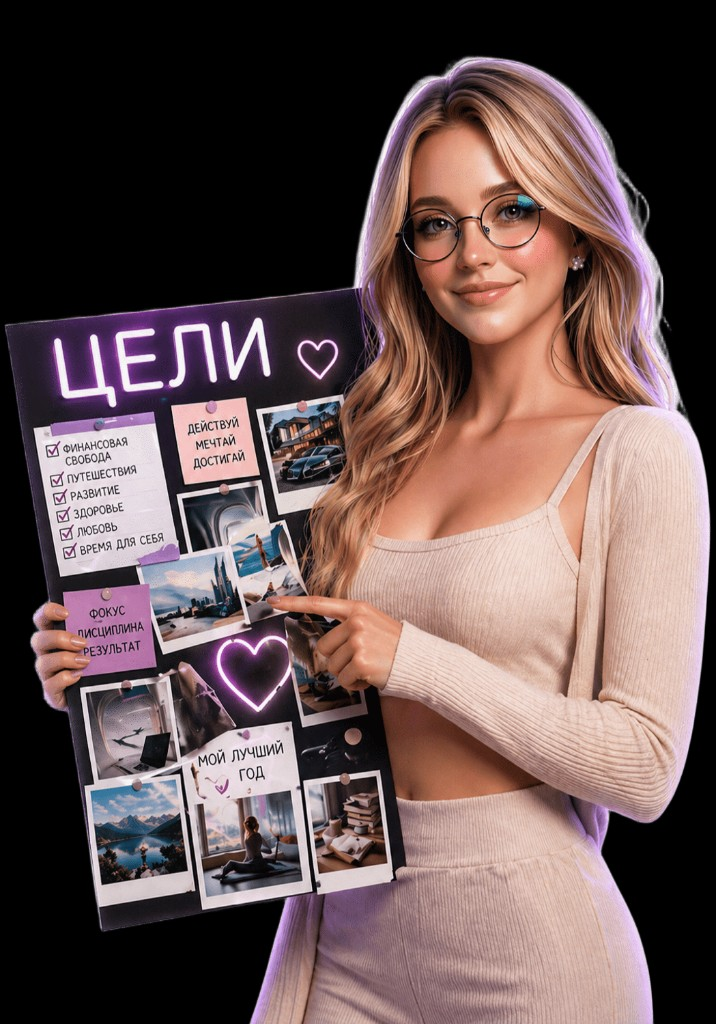
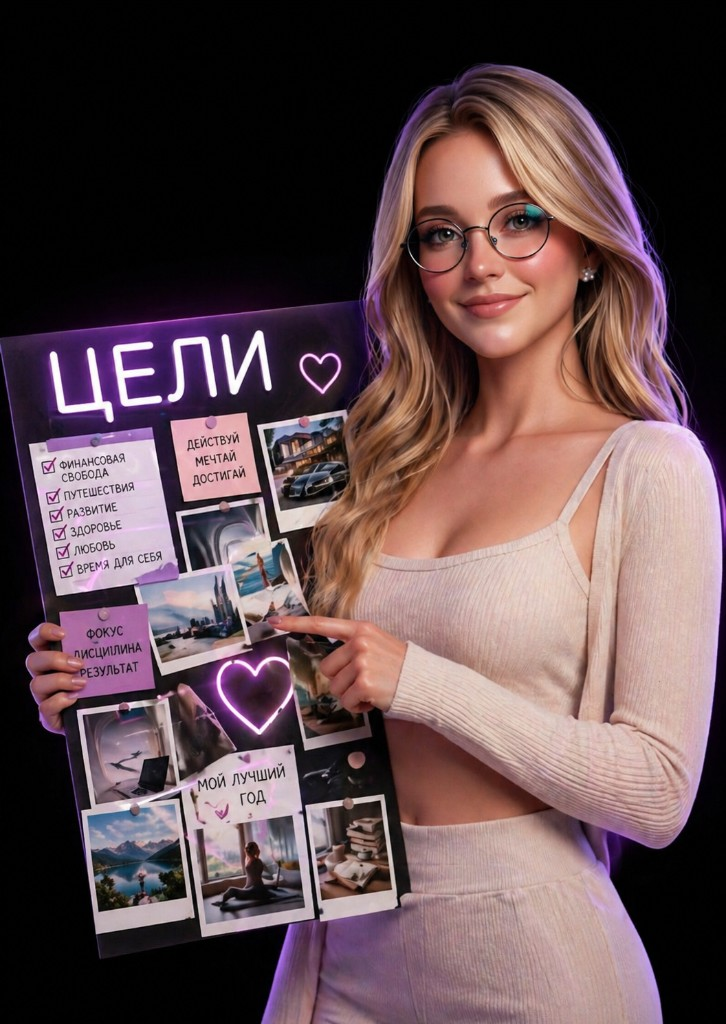
Goals hero: HabitHero-style layout with contain image; new art; tighter spacing.
Made-with: Cursor

diff --git a/src/features/goals/GoalsHero.tsx b/src/features/goals/GoalsHero.tsx
@@ -4,71 +4,97 @@ import { Platform, StyleSheet, Text, useWindowDimensions, View } from 'react-nat
 
 import { useAppTheme } from '@/theme';
 
-/** PNG с прозрачным фоном: девушка с доской «ЦЕЛИ». */
+/** PNG с прозрачным фоном: София с доской «ЦЕЛИ». */
 export const GOALS_HERO_VISION_IMAGE = require('../../assets/images/goals-hero-vision-board.png');
 
-const STACK_BREAKPOINT = 440;
+const STACK_BREAKPOINT = 420;
 
 /**
- * Hero для раздела «Цели»: плашка как на «День», крупное фото с alpha — «вылезает» за нижний край карточки.
+ * Hero «Цели»: та же сетка, что на экране «День» (HabitHero) — правая колонка, картинка в рамке без обрезки (`contain`).
  */
 export function GoalsHero() {
   const { radius, spacing } = useAppTheme();
   const cardRadius = radius.xl;
   const { width: windowWidth } = useWindowDimensions();
-  const stack = windowWidth < STACK_BREAKPOINT;
+  const stackLayout = windowWidth < STACK_BREAKPOINT;
 
   return (
-    <View style={[styles.root, { borderRadius: cardRadius, marginBottom: spacing.lg }]}>
+    <View style={[styles.banner, { borderRadius: cardRadius, marginBottom: spacing.sm }]}>
       <LinearGradient
         pointerEvents="none"
         colors={['#141018', '#0a090f', '#06060a']}
         start={{ x: 0, y: 0 }}
-        end={{ x: 0.85, y: 1 }}
+        end={{ x: 0.9, y: 1 }}
         style={[StyleSheet.absoluteFillObject, { borderRadius: cardRadius }]}
       />
       <LinearGradient
         pointerEvents="none"
-        colors={['rgba(109,40,217,0.42)', 'rgba(20,16,28,0.2)', 'transparent']}
-        start={{ x: 0, y: 0.35 }}
-        end={{ x: 0.7, y: 0.55 }}
+        colors={['rgba(109,40,217,0.42)', 'rgba(20,16,28,0.22)', 'transparent']}
+        start={{ x: 0, y: 0.4 }}
+        end={{ x: 0.65, y: 0.6 }}
         style={[StyleSheet.absoluteFillObject, { borderRadius: cardRadius }]}
       />
       <LinearGradient
         pointerEvents="none"
-        colors={['transparent', 'rgba(167,139,250,0.18)']}
-        start={{ x: 0.35, y: 0 }}
+        colors={['transparent', 'rgba(109,40,217,0.12)', 'rgba(167,139,250,0.2)']}
+        start={{ x: 0.4, y: 0 }}
         end={{ x: 1, y: 1 }}
         style={[StyleSheet.absoluteFillObject, { borderRadius: cardRadius }]}
       />
 
-      <View style={[styles.row, stack && styles.rowStack]}>
-        <View style={[styles.copy, stack && styles.copyStack]}>
-          <Text style={styles.overline}>ЦЕЛИ</Text>
-          <Text style={styles.headline}>Визионборд</Text>
-          <Text style={styles.micro}>
-            Доска с фото и заметками — цели на виду, как на настоящем визионборде.
-          </Text>
+      <View style={[styles.contentRow, stackLayout && styles.contentRowStack]}>
+        <View style={[styles.copyZone, stackLayout && styles.copyZoneStack]}>
+          <Text style={styles.headline}>Цели и доска желаний</Text>
         </View>
 
-        <View style={[styles.figureSlot, stack && styles.figureSlotStack]} pointerEvents="none">
-          <Image
-            source={GOALS_HERO_VISION_IMAGE}
-            style={stack ? styles.figureImgStack : styles.figureImgRow}
-            contentFit="contain"
-            accessibilityIgnoresInvertColors
-            accessibilityLabel="Иллюстрация: девушка с доской целей"
+        <View style={[styles.figureZone, stackLayout && styles.figureZoneStack]}>
+          <View style={styles.figureImageFrame} collapsable={false}>
+            <Image
+              source={GOALS_HERO_VISION_IMAGE}
+              style={StyleSheet.absoluteFillObject}
+              contentFit="contain"
+              contentPosition={{ right: '0%', bottom: '0%' }}
+              accessibilityIgnoresInvertColors
+              accessibilityLabel="Иллюстрация: доска желаний"
+            />
+          </View>
+          <LinearGradient
+            pointerEvents="none"
+            colors={[
+              'rgba(8,8,14,0.9)',
+              'rgba(10,10,18,0.42)',
+              'rgba(14,12,22,0.1)',
+              'transparent',
+            ]}
+            locations={[0, 0.38, 0.72, 1]}
+            start={{ x: 0, y: 0.5 }}
+            end={{ x: 1, y: 0.5 }}
+            style={styles.figureBlendLeft}
+          />
+          <LinearGradient
+            pointerEvents="none"
+            colors={['rgba(6,6,10,0.22)', 'transparent']}
+            start={{ x: 0.5, y: 0 }}
+            end={{ x: 0.5, y: 0.42 }}
+            style={[StyleSheet.absoluteFillObject, styles.figureFeatherTop]}
+          />
+          <LinearGradient
+            pointerEvents="none"
+            colors={['transparent', 'rgba(6,6,10,0.5)', 'rgba(5,5,8,0.75)']}
+            locations={[0, 0.55, 1]}
+            start={{ x: 0, y: 0.5 }}
+            end={{ x: 1, y: 0.5 }}
+            style={styles.figureFeatherRight}
+          />
+          <LinearGradient
+            pointerEvents="none"
+            colors={['transparent', 'rgba(55,20,90,0.22)']}
+            start={{ x: 0.15, y: 0 }}
+            end={{ x: 1, y: 1 }}
+            style={[StyleSheet.absoluteFillObject, styles.figureTint]}
           />
         </View>
       </View>
-
-      <LinearGradient
-        pointerEvents="none"
-        colors={['rgba(8,8,14,0.35)', 'transparent']}
-        start={{ x: 0, y: 0.5 }}
-        end={{ x: 0.45, y: 0.5 }}
-        style={[styles.leftFeather, { borderRadius: cardRadius }]}
-      />
 
       <View
         pointerEvents="none"
@@ -77,7 +103,7 @@ export function GoalsHero() {
           {
             borderRadius: cardRadius,
             borderWidth: 1,
-            borderColor: 'rgba(167,139,250,0.32)',
+            borderColor: 'rgba(167,139,250,0.28)',
           },
         ]}
       />
@@ -89,7 +115,7 @@ export function GoalsHero() {
             {
               borderRadius: cardRadius,
               boxShadow:
-                'inset 0 0 0 1px rgba(255,255,255,0.06), 0 0 80px rgba(120,60,200,0.2), 0 20px 56px rgba(0,0,0,0.5)',
+                'inset 0 0 0 1px rgba(255,255,255,0.06), 0 0 80px rgba(120,60,200,0.22), 0 20px 56px rgba(0,0,0,0.55)',
             } as object,
           ]}
         />
@@ -99,111 +125,101 @@ export function GoalsHero() {
 }
 
 const styles = StyleSheet.create({
-  root: {
-    marginTop: 4,
-    overflow: 'visible',
+  banner: {
+    marginTop: 0,
+    overflow: 'hidden',
     position: 'relative',
     borderWidth: 1,
-    borderColor: 'rgba(139,92,246,0.38)',
-    minHeight: 248,
+    borderColor: 'rgba(139,92,246,0.35)',
     ...(Platform.OS === 'web'
       ? {
           boxShadow:
-            'inset 0 0 0 1px rgba(255,255,255,0.05), 0 18px 52px rgba(0,0,0,0.55), 0 0 88px rgba(88,40,160,0.22)',
+            'inset 0 0 0 1px rgba(255,255,255,0.05), 0 18px 52px rgba(0,0,0,0.58), 0 0 88px rgba(88,40,160,0.24)',
         }
       : {
           shadowColor: '#000',
-          shadowOffset: { width: 0, height: 16 },
-          shadowOpacity: 0.5,
-          shadowRadius: 32,
-          elevation: 12,
+          shadowOffset: { width: 0, height: 18 },
+          shadowOpacity: 0.55,
+          shadowRadius: 36,
+          elevation: 14,
         }),
   },
-  row: {
+  contentRow: {
     flexDirection: 'row',
-    alignItems: 'flex-end',
-    position: 'relative',
-    zIndex: 2,
-    minHeight: 248,
-    paddingLeft: 20,
-    paddingRight: 8,
-    paddingTop: 22,
-    paddingBottom: 20,
-  },
-  rowStack: {
-    flexDirection: 'column',
     alignItems: 'stretch',
-    minHeight: undefined,
-    paddingBottom: 8,
+    position: 'relative',
+    zIndex: 1,
+    minHeight: 280,
   },
-  copy: {
+  contentRowStack: {
+    flexDirection: 'column',
+    minHeight: undefined,
+  },
+  copyZone: {
     flex: 1,
     minWidth: 0,
-    maxWidth: '52%',
-    paddingRight: 8,
+    maxWidth: '54%',
+    paddingLeft: 22,
+    paddingRight: 14,
+    paddingVertical: 22,
     justifyContent: 'center',
-    paddingBottom: 8,
-    zIndex: 4,
   },
-  copyStack: {
+  copyZoneStack: {
+    width: '100%',
     maxWidth: '100%',
-    paddingBottom: 4,
-  },
-  overline: {
-    fontSize: 10,
-    fontWeight: '800',
-    letterSpacing: 2.4,
-    color: 'rgba(196,181,253,0.72)',
+    paddingLeft: 20,
+    paddingRight: 20,
+    paddingTop: 20,
+    paddingBottom: 12,
   },
   headline: {
-    marginTop: 10,
-    fontSize: 26,
-    fontWeight: '800',
+    fontSize: 24,
+    fontWeight: '700',
     letterSpacing: -0.6,
     lineHeight: 30,
     color: '#FAFAFC',
   },
-  micro: {
-    marginTop: 10,
-    fontSize: 13,
-    lineHeight: 19,
-    color: 'rgba(255,255,255,0.5)',
-    maxWidth: 300,
-  },
-  figureSlot: {
-    width: '46%',
-    minWidth: 168,
-    maxWidth: 300,
-    alignItems: 'flex-end',
-    justifyContent: 'flex-end',
-    marginBottom: -40,
-    marginTop: -52,
+  figureZone: {
+    width: '48%',
+    minWidth: 200,
+    maxWidth: 340,
+    position: 'relative',
+    overflow: 'hidden',
     alignSelf: 'stretch',
-    zIndex: 3,
+    minHeight: 280,
   },
-  figureSlotStack: {
+  figureZoneStack: {
     width: '100%',
     maxWidth: '100%',
     minWidth: 0,
-    marginBottom: -28,
-    marginTop: -20,
-    minHeight: 220,
-    alignItems: 'center',
-    zIndex: 3,
+    minHeight: 244,
+    maxHeight: 252,
+    alignSelf: 'stretch',
   },
-  figureImgRow: {
-    width: 248,
-    height: 332,
-    marginRight: -16,
-  },
-  figureImgStack: {
-    width: '92%',
-    maxWidth: 300,
-    height: 288,
-  },
-  leftFeather: {
+  figureImageFrame: {
     ...StyleSheet.absoluteFillObject,
+    zIndex: 0,
+  },
+  figureBlendLeft: {
+    position: 'absolute',
+    left: 0,
+    top: 0,
+    bottom: 0,
+    width: '78%',
+    zIndex: 2,
+  },
+  figureFeatherTop: {
+    zIndex: 2,
+  },
+  figureFeatherRight: {
+    position: 'absolute',
+    right: 0,
+    top: 0,
+    bottom: 0,
+    width: '36%',
+    zIndex: 2,
+  },
+  figureTint: {
     zIndex: 1,
-    pointerEvents: 'none',
   },
 });

diff --git a/src/features/goals/PersonalTargetsScreen.tsx b/src/features/goals/PersonalTargetsScreen.tsx
@@ -477,7 +477,7 @@ function SideGoalsBoardBlock({
   }, [editId, removeSideGoal]);
 
   return (
-    <View style={{ gap: spacing.md }}>
+    <View style={{ gap: spacing.sm }}>
       {boardTab === 'all' ? (
         <GoalsNavigatorBento
           calendarYear={calendarYear}
@@ -523,7 +523,7 @@ function SideGoalsBoardBlock({
       ) : (
         <>
           {boardTab === 'nearest' ? (
-            <View style={{ gap: spacing.lg }}>
+            <View style={{ gap: spacing.sm }}>
               {pinnedGoals.length === 0 ? (
                 <Text style={{ fontSize: 13, lineHeight: 19, color: 'rgba(247,244,250,0.38)', fontWeight: '600' }}>
                   Пока нет закреплённых целей. Нажми «Добавить цель» и включи «Ближайшая цель».
@@ -541,7 +541,7 @@ function SideGoalsBoardBlock({
           ) : null}
 
           {boardTab === 'year' ? (
-            <View style={{ gap: spacing.lg }}>
+            <View style={{ gap: spacing.sm }}>
               <Text
                 style={{
                   fontSize: 11,
@@ -568,7 +568,7 @@ function SideGoalsBoardBlock({
                 />
               )}
               {otherYearGoals.length > 0 ? (
-                <View style={{ gap: spacing.md, marginTop: spacing.sm }}>
+                <View style={{ gap: spacing.sm, marginTop: 4 }}>
                   <Text
                     style={{
                       fontSize: 11,
@@ -1411,7 +1411,7 @@ export function PersonalTargetsScreen() {
           paddingTop: Math.max(insets.top, 12) + spacing.sm,
           paddingHorizontal: spacing.lg,
           paddingBottom: 120,
-          gap: spacing.xl + 8,
+          gap: spacing.md,
         }}
         showsVerticalScrollIndicator={false}
       >
@@ -1420,7 +1420,7 @@ export function PersonalTargetsScreen() {
           <HeaderProfileAvatar />
         </View>
 
-        <View style={{ overflow: 'visible', paddingBottom: 36 }}>
+        <View style={{ overflow: 'hidden', paddingBottom: 8 }}>
           <GoalsHero />
         </View>
 
@@ -1432,9 +1432,9 @@ export function PersonalTargetsScreen() {
             </Text>
           </AppSurfaceCard>
         ) : (
-          <View style={{ gap: spacing.md }}>
+          <View style={{ gap: spacing.sm }}>
             <GoalsBoardTabBar boardTab={boardTab} onBoardTab={setBoardTab} />
-            <View style={{ gap: spacing.xs }}>
+            <View style={{ gap: 4 }}>
               {boardTab === 'all' || boardTab === 'nearest' ? (
                 <NikolayDayMoneyHeroCards
                   sprintId={activeSprint?.id ?? null}

diff --git a/src/features/goals/GoalsNavigatorBento.tsx b/src/features/goals/GoalsNavigatorBento.tsx
@@ -64,7 +64,7 @@ export function GoalsNavigatorBento({
   }, [pinnedGoals, horizonGoals, yearNearest, yearTrack, otherYearGoals, wishGoals]);
 
   return (
-    <View style={{ gap: spacing.xl + 4 }}>
+    <View style={{ gap: spacing.md }}>
       <PersonalGoalsMasonryGrid
         goals={mergedAll}
         onEditGoal={onEditGoal}
